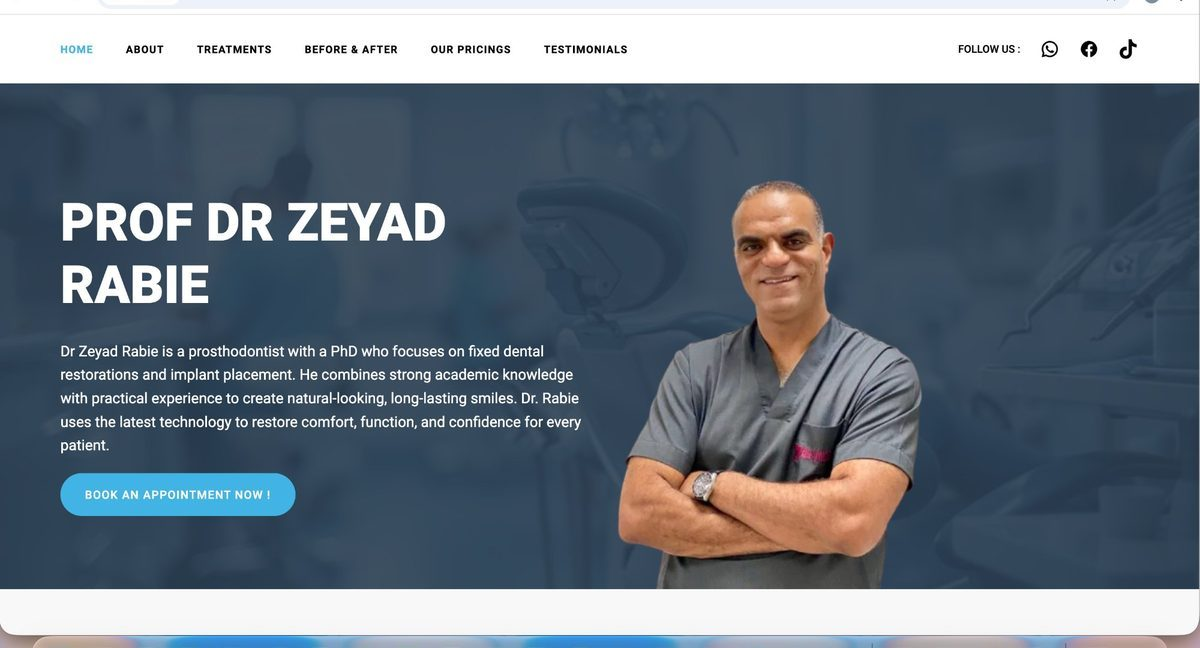
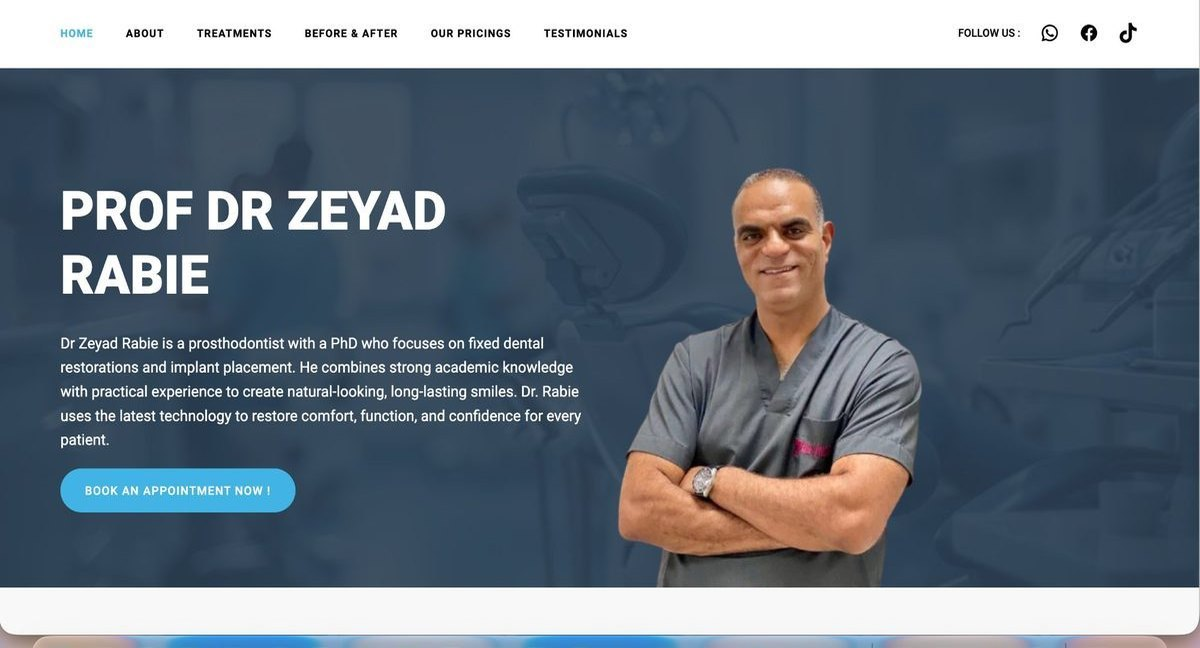
Switch all work cards to full-bleed desktop screenshots
The four device mockups were a workaround for having only phone
captures. With desktop shots available, every card now shows the site
itself, matching the two that already did.

- Rebuild Bride Box, Estia, PWT Sales and NaviLink from the desktop
  captures, cropping the browser chrome at the page boundary so no tab
  strip, address bar or open-tab titles are carried into the images.
- NaviLink's hero becomes the full-width page view (1200x682).
- Trim a leftover 17px chrome strip from the tops of Prime Medical Wear
  and Smile Artists, which had been there since the first commit.

diff --git a/index.html b/index.html
@@ -370,7 +370,7 @@
   </div>
   <div class="pf-hero-right">
     <div class="pf-hero-img">
-      <picture><source srcset="images/hero-navilink.webp" type="image/webp"><img src="images/hero-navilink.jpg" width="1200" height="900" loading="eager" decoding="async" fetchpriority="high" alt="NaviLink — featured project"></picture>
+      <picture><source srcset="images/hero-navilink.webp" type="image/webp"><img src="images/hero-navilink.jpg" width="1200" height="682" loading="eager" decoding="async" fetchpriority="high" alt="NaviLink — featured project"></picture>
     </div>
     <div class="pf-stats-row">
       <div class="pf-stat">
